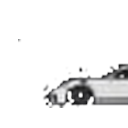
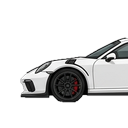
feat: AI-refined high resolution car sprites and updated application emojis

Changed region(s): [[0.1562, 0.2812, 1.0, 0.8438], [0.125, 0.2812, 0.1562, 0.3438]]

diff --git a/src/config/constants.ts b/src/config/constants.ts
@@ -119,15 +119,15 @@ export interface VehicleDef {
 
 export const VEHICLE_CATALOG: VehicleDef[] = [
   { key: 'basic', name: 'Basic Car', cost: 700000n, cooldownMinutes: 16, emoji: '🚗' },
-  { key: 'honda', name: 'Honda Civic', cost: 1000000n, cooldownMinutes: 14, emoji: '<:hcfront:1574138692295987373><:hcback:1574138697283141734>' },
-  { key: 'toyota', name: 'Toyota Supra', cost: 3000000n, cooldownMinutes: 10, emoji: '<:tsfront:1574138702702186717><:tsback:1574138708024754308>' },
-  { key: 'porsche', name: 'Porsche 911', cost: 5350000n, cooldownMinutes: 7, emoji: '<:p911front:1574138713049403577><:p911back:1574138717931708539>' },
-  { key: 'nissan', name: 'Nissan GTR', cost: 6750000n, cooldownMinutes: 4, emoji: '<:ngtrfront:1574138723589955664><:ngtrback:1574138728644087951>' },
-  { key: 'audi', name: 'Audi R8', cost: 6750000n, cooldownMinutes: 4, emoji: '<:ar8front:1574138734033633343><:ar8back:1574138739721240606>' },
-  { key: 'lamborghini', name: 'Lamborghini Huracan', cost: 8400000n, cooldownMinutes: 3, emoji: '<:lhfront:1574138744653611018><:lhback:1574138749577728222>' },
-  { key: 'rollsroyce', name: 'Rolls Royce Ghost', cost: 10250000n, cooldownMinutes: 2, emoji: '<:rrgfront:1574138754514296833><:rrgback:1574138759711035653>' },
-  { key: 'ferrari', name: 'Ferrari La Ferrari', cost: 17700000n, cooldownMinutes: 1, emoji: '<:ffront:1574138764668706918><:fback:1574138769706328134>' },
-  { key: 'bugatti', name: 'Bugatti Chiron', cost: 20500000n, cooldownMinutes: 1, emoji: '<:bcfront:1574138775083155539><:bcback:1574138781710295060>' }
+  { key: 'honda', name: 'Honda Civic', cost: 1000000n, cooldownMinutes: 14, emoji: '<:hcfront:1574145982218637443><:hcback:1574145991353966643>' },
+  { key: 'toyota', name: 'Toyota Supra', cost: 3000000n, cooldownMinutes: 10, emoji: '<:tsfront:1574146000724033697><:tsback:1574146010345775265>' },
+  { key: 'porsche', name: 'Porsche 911', cost: 5350000n, cooldownMinutes: 7, emoji: '<:p911front:1574146019740885033><:p911back:1574146028884463857>' },
+  { key: 'nissan', name: 'Nissan GTR', cost: 6750000n, cooldownMinutes: 4, emoji: '<:ngtrfront:1574146038296617141><:ngtrback:1574146047499047014>' },
+  { key: 'audi', name: 'Audi R8', cost: 6750000n, cooldownMinutes: 4, emoji: '<:ar8front:1574146057233760256><:ar8back:1574146066180345996>' },
+  { key: 'lamborghini', name: 'Lamborghini Huracan', cost: 8400000n, cooldownMinutes: 3, emoji: '<:lhfront:1574146075101499583><:lhback:1574146085767876669>' },
+  { key: 'rollsroyce', name: 'Rolls Royce Ghost', cost: 10250000n, cooldownMinutes: 2, emoji: '<:rrgfront:1574146094797955122><:rrgback:1574146104113496237>' },
+  { key: 'ferrari', name: 'Ferrari La Ferrari', cost: 17700000n, cooldownMinutes: 1, emoji: '<:ffront:1574146113232179303><:fback:1574146122472095798>' },
+  { key: 'bugatti', name: 'Bugatti Chiron', cost: 20500000n, cooldownMinutes: 1, emoji: '<:bcfront:1574146131578060930><:bcback:1574146142613012530>' }
 ];
 
 export interface PlaystyleDef {

diff --git a/scripts/showcase_cars_and_trophy.js b/scripts/showcase_cars_and_trophy.js
@@ -29,15 +29,15 @@ client.on('ready', async () => {
   // 2. Showcase Vehicle Showroom
   const cars = [
     { key: 'basic', name: 'Basic Car', cost: '700k', cooldown: 16, emoji: '🚗' },
-    { key: 'honda', name: 'Honda Civic', cost: '1M', cooldown: 14, emoji: '<:hcfront:1574138692295987373><:hcback:1574138697283141734>' },
-    { key: 'toyota', name: 'Toyota Supra', cost: '3M', cooldown: 10, emoji: '<:tsfront:1574138702702186717><:tsback:1574138708024754308>' },
-    { key: 'porsche', name: 'Porsche 911', cost: '5.35M', cooldown: 7, emoji: '<:p911front:1574138713049403577><:p911back:1574138717931708539>' },
-    { key: 'nissan', name: 'Nissan GTR', cost: '6.75M', cooldown: 4, emoji: '<:ngtrfront:1574138723589955664><:ngtrback:1574138728644087951>' },
-    { key: 'audi', name: 'Audi R8', cost: '6.75M', cooldown: 4, emoji: '<:ar8front:1574138734033633343><:ar8back:1574138739721240606>' },
-    { key: 'lamborghini', name: 'Lamborghini Huracan', cost: '8.4M', cooldown: 3, emoji: '<:lhfront:1574138744653611018><:lhback:1574138749577728222>' },
-    { key: 'rollsroyce', name: 'Rolls Royce Ghost', cost: '10.25M', cooldown: 2, emoji: '<:rrgfront:1574138754514296833><:rrgback:1574138759711035653>' },
-    { key: 'ferrari', name: 'Ferrari La Ferrari', cost: '17.7M', cooldown: 1, emoji: '<:ffront:1574138764668706918><:fback:1574138769706328134>' },
-    { key: 'bugatti', name: 'Bugatti Chiron', cost: '20.5M', cooldown: 1, emoji: '<:bcfront:1574138775083155539><:bcback:1574138781710295060>' }
+    { key: 'honda', name: 'Honda Civic', cost: '1M', cooldown: 14, emoji: '<:hcfront:1574145982218637443><:hcback:1574145991353966643>' },
+    { key: 'toyota', name: 'Toyota Supra', cost: '3M', cooldown: 10, emoji: '<:tsfront:1574146000724033697><:tsback:1574146010345775265>' },
+    { key: 'porsche', name: 'Porsche 911', cost: '5.35M', cooldown: 7, emoji: '<:p911front:1574146019740885033><:p911back:1574146028884463857>' },
+    { key: 'nissan', name: 'Nissan GTR', cost: '6.75M', cooldown: 4, emoji: '<:ngtrfront:1574146038296617141><:ngtrback:1574146047499047014>' },
+    { key: 'audi', name: 'Audi R8', cost: '6.75M', cooldown: 4, emoji: '<:ar8front:1574146057233760256><:ar8back:1574146066180345996>' },
+    { key: 'lamborghini', name: 'Lamborghini Huracan', cost: '8.4M', cooldown: 3, emoji: '<:lhfront:1574146075101499583><:lhback:1574146085767876669>' },
+    { key: 'rollsroyce', name: 'Rolls Royce Ghost', cost: '10.25M', cooldown: 2, emoji: '<:rrgfront:1574146094797955122><:rrgback:1574146104113496237>' },
+    { key: 'ferrari', name: 'Ferrari La Ferrari', cost: '17.7M', cooldown: 1, emoji: '<:ffront:1574146113232179303><:fback:1574146122472095798>' },
+    { key: 'bugatti', name: 'Bugatti Chiron', cost: '20.5M', cooldown: 1, emoji: '<:bcfront:1574146131578060930><:bcback:1574146142613012530>' }
   ];
 
   const lines = cars.map(v => {

diff --git a/src/utils/emojiHelper.ts b/src/utils/emojiHelper.ts
@@ -54,24 +54,24 @@ export const APPLICATION_EMOJIS: Record<string, string> = {
   zzcross: '<:zzcross:1574133121228603562>',
   zztick: '<:zztick:1574133126702170255>',
   // Vehicle front & back application emojis
-  hcfront: '<:hcfront:1574138692295987373>',
-  hcback: '<:hcback:1574138697283141734>',
-  tsfront: '<:tsfront:1574138702702186717>',
-  tsback: '<:tsback:1574138708024754308>',
-  p911front: '<:p911front:1574138713049403577>',
-  p911back: '<:p911back:1574138717931708539>',
-  ngtrfront: '<:ngtrfront:1574138723589955664>',
-  ngtrback: '<:ngtrback:1574138728644087951>',
-  ar8front: '<:ar8front:1574138734033633343>',
-  ar8back: '<:ar8back:1574138739721240606>',
-  lhfront: '<:lhfront:1574138744653611018>',
-  lhback: '<:lhback:1574138749577728222>',
-  rrgfront: '<:rrgfront:1574138754514296833>',
-  rrgback: '<:rrgback:1574138759711035653>',
-  ffront: '<:ffront:1574138764668706918>',
-  fback: '<:fback:1574138769706328134>',
-  bcfront: '<:bcfront:1574138775083155539>',
-  bcback: '<:bcback:1574138781710295060>'
+  hcfront: '<:hcfront:1574145982218637443>',
+  hcback: '<:hcback:1574145991353966643>',
+  tsfront: '<:tsfront:1574146000724033697>',
+  tsback: '<:tsback:1574146010345775265>',
+  p911front: '<:p911front:1574146019740885033>',
+  p911back: '<:p911back:1574146028884463857>',
+  ngtrfront: '<:ngtrfront:1574146038296617141>',
+  ngtrback: '<:ngtrback:1574146047499047014>',
+  ar8front: '<:ar8front:1574146057233760256>',
+  ar8back: '<:ar8back:1574146066180345996>',
+  lhfront: '<:lhfront:1574146075101499583>',
+  lhback: '<:lhback:1574146085767876669>',
+  rrgfront: '<:rrgfront:1574146094797955122>',
+  rrgback: '<:rrgback:1574146104113496237>',
+  ffront: '<:ffront:1574146113232179303>',
+  fback: '<:fback:1574146122472095798>',
+  bcfront: '<:bcfront:1574146131578060930>',
+  bcback: '<:bcback:1574146142613012530>'
 };
 
 /**
